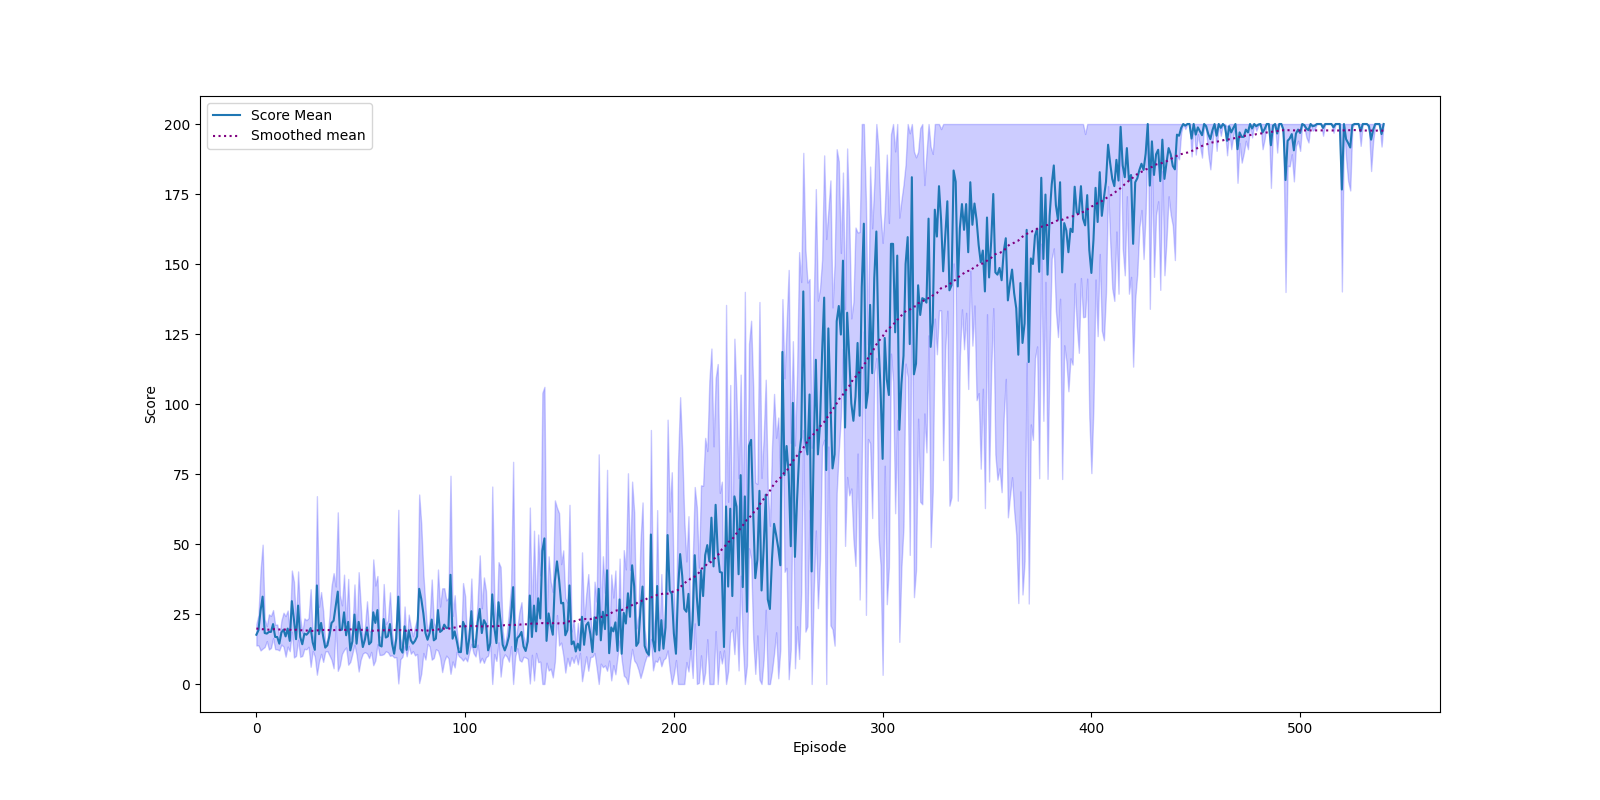
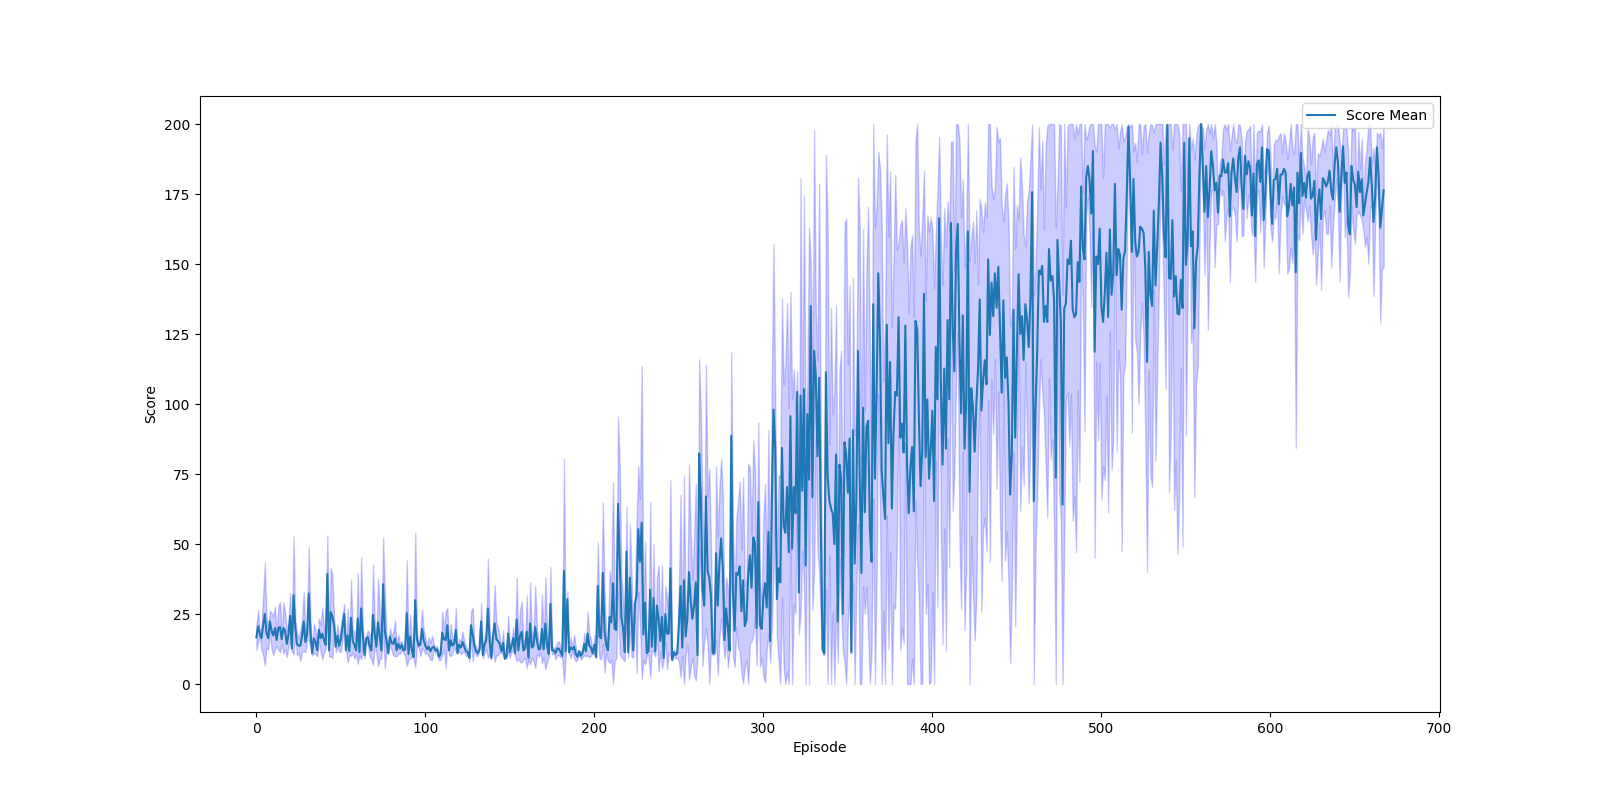
got data flowing through the model

Changed region(s): [[0.1562, 0.125, 0.9062, 0.875], [0.1562, 0.125, 0.2188, 0.1875], [0.7812, 0.9062, 0.8125, 0.9375]]

diff --git a/project_experiments/vision_cart_pole.py b/project_experiments/vision_cart_pole.py
@@ -14,6 +14,18 @@ import torch.nn.functional as F
 import torchvision.transforms as T
 from collections import deque
 from tqdm import tqdm
+import os, shutil
+from random import randint
+folder = 'project_exp_figs'
+for filename in os.listdir(folder):
+    file_path = os.path.join(folder, filename)
+    try:
+        if os.path.isfile(file_path) or os.path.islink(file_path):
+            os.unlink(file_path)
+        elif os.path.isdir(file_path):
+            shutil.rmtree(file_path)
+    except Exception as e:
+        print('Failed to delete %s. Reason: %s' % (file_path, e))
 
 # Wandb
 #import wandb
@@ -76,7 +88,7 @@ is_ipython = 'inline' in matplotlib.get_backend()
 if is_ipython:
     from IPython import display
 
-plt.ion()
+#plt.ion()
 
 # If gpu is to be used
 
@@ -222,7 +234,7 @@ else:
     plt.imshow(get_screen().cpu().squeeze(0).permute(
         1, 2, 0).numpy().squeeze(), cmap='gray')
 plt.title('Example extracted screen')
-plt.show()
+#plt.ioff()
 
 env.close()
 
@@ -237,7 +249,7 @@ n_actions = env.action_space.n
 
 policy_net = DQN(screen_height, screen_width, n_actions).to(device)
 target_net = DQN(screen_height, screen_width, n_actions).to(device)
-env_net = D_AutoEncoder(screen_height, screen_width, 100, n_actions).to(device)
+env_net = D_AutoEncoder(screen_height, screen_width, 10, n_actions).to(device)
 target_net.load_state_dict(policy_net.state_dict())
 target_net.eval()
 
@@ -274,35 +286,7 @@ def select_action(state, stop_training):
     else:
         return torch.tensor([[random.randrange(n_actions)]], device=device, dtype=torch.long)
     
-# Plotting
-def plot_durations(score):
-    fig, ax = plt.subplots(figsize=(16,8))
-    durations_t = torch.tensor(episode_durations, dtype=torch.float)
-    episode_number = len(durations_t) 
-    ax.set_title('Training...')
-    ax.set_xlabel('Episode')
-    ax.set_ylabel('Duration')
-    dur = durations_t.numpy()
-    plt.style.use('seaborn') #Change/Remove This If you Want
-#     ax.plot(dur, label= 'Score')
-    ax.fill_between(np.linspace(1,episode_number,episode_number),
-                    dur - dur.std(), dur + dur.std(), alpha=0.2)
 
-    plt.hlines(195, 0, episode_number, colors='red', linestyles=':', label='Win Threshold')
-    
-    # Take 100 episode averages and plot them too
-    if len(durations_t) >= 100:
-        means = durations_t.unfold(0, 100, 1).mean(1).view(-1)
-        last100_mean = means[episode_number -100].item()
-        means = torch.cat((torch.zeros(99), means))
-        ax.plot(means.numpy(), label= 'Last 100 mean')
-        print('Episode: ', episode_number, ' | Score: ', score, '| Last 100 mean = ', last100_mean)
-    ax.legend(loc='upper left')
-    fig.savefig('plots/' + graph_name)
-#     if is_ipython:
-#         display.clear_output(wait=True)
-#         display.display(plt.gcf())
-    fig.show()
 
 # Training 
 def optimize_model():
@@ -342,7 +326,8 @@ def optimize_model():
 
     # Compute Huber loss
     loss = F.smooth_l1_loss(state_action_values, expected_state_action_values.unsqueeze(1))
-    plt.figure(2)
+    #plt.figure(2)
+
     #wandb.log({'Loss:': loss})
 
     # Optimize the model
@@ -371,14 +356,44 @@ def optimize_env_model():
     # torch.cat concatenates tensor sequence
     state_batch = torch.cat(batch.state)
     action_batch = torch.cat(batch.action)
-    reward_batch = torch.cat(batch.reward).type(torch.FloatTensor).to(device)
 
     predicted_next_states = env_net(state_batch[non_final_mask], action_batch[non_final_mask])#.detach()
 
-    # Compute Huber loss
     loss = F.mse_loss(predicted_next_states, non_final_next_states)
 
-    plt.figure(2)
+    if i_episode%50==0:
+        pic_id = randint(0, predicted_next_states.shape[0])
+        fig, ax = plt.subplots(2,2)
+        if GRAYSCALE == 0:
+            ax[0,0].imshow(predicted_next_states[pic_id,0].cpu().numpy(),
+                    interpolation='none')
+            ax[0,0].set_title("pred0")
+            ax[1,0].imshow(non_final_next_states[pic_id,0].cpu().numpy(),
+                    interpolation='none')
+            ax[1,0].set_title("real0")
+            ax[0,1].imshow(predicted_next_states[pic_id,1].cpu().numpy(),
+                    interpolation='none')
+            ax[0,1].set_title("pred1")
+            ax[1,1].imshow(non_final_next_states[pic_id,1].cpu().numpy(),
+                    interpolation='none')
+            ax[1,1].set_title("real1")
+        else:
+            ax[0,0].imshow(predicted_next_states[pic_id,0].detach().cpu().numpy(), 
+                    cmap='gray')
+            ax[0,0].set_title("pred0")
+            ax[1,0].imshow(non_final_next_states[pic_id,0].detach().cpu().numpy(), 
+                    cmap='gray')
+            ax[1,0].set_title("real0")
+            ax[0,1].imshow(predicted_next_states[pic_id,1].detach().cpu().numpy(), 
+                    cmap='gray')
+            ax[0,1].set_title("pred1")
+            ax[1,1].imshow(non_final_next_states[pic_id,1].detach().cpu().numpy(), 
+                    cmap='gray')
+            ax[1,1].set_title("real1")
+        fig.suptitle('Example predicted screen')
+        fig.savefig(f"project_exp_figs/screen{j}_{i_episode}.png")
+        plt.close(fig)
+    #plt.show()
     #wandb.log({'env_Loss:': loss})
 
     # Optimize the model
@@ -387,11 +402,13 @@ def optimize_env_model():
     #for param in policy_net.parameters():
     #    param.grad.data.clamp_(-1, 1)
     env_optim.step()
+    return loss.item()
 
 episodes_trajectories = []
+vae_losses = []
 episodes_after_stop = 100
 
-runs = 5
+runs = 3
 
 # MAIN LOOP
 stop_training = False
@@ -412,6 +429,7 @@ for j in range(runs):
     
     steps_done = 0
     episode_durations = []
+    vae_loss = []
     for i_episode in tqdm(range(N_EPISODES)):
         # Initialize the environment and state
         env.reset()
@@ -459,7 +477,9 @@ for j in range(runs):
                 mean = mean/LAST_EPISODES_NUM
                 if mean < TRAINING_STOP and stop_training == False:
                     optimize_model()
-                    optimize_env_model()
+                    l = optimize_env_model()
+                    if not(l is None):
+                        vae_loss.append(l)
                 else:
                     stop_training = True
                 break
@@ -472,12 +492,13 @@ for j in range(runs):
             if count_final >= 100:
                 break
 
-            
     print('Complete')
     stop_training = False
     episodes_trajectories.append(episode_durations)
+    vae_losses.append(vae_loss)
+
     
-plt.ioff()
+
 plt.show()
 
 # Cherry picking best runs
@@ -504,6 +525,7 @@ for i in range(len(best)):
     
 best = np.asarray(best)
 
+
 # To numpy
 score_mean = np.zeros(maximum)
 score_std = np.zeros(maximum)
@@ -517,6 +539,9 @@ print(len(last100_mean))
 
 t = np.arange(0, maximum, 1)
 
+
+
+
 # from scipy.interpolate import make_interp_spline # make smooth version
 # interpol = make_interp_spline(t, score_mean, k=3)  # type: BSpline
 
@@ -528,6 +553,21 @@ ax.set_xlabel('Episode')
 ax.set_ylabel('Score')
 # ax.set_title('Inverted Pendulum Training Plot from Pixels')
 ax.plot(t, score_mean, label='Score Mean')
-ax.plot(t, last100_mean, color='purple', linestyle='dotted', label='Smoothed mean')
+#ax.plot(t, last100_mean, color='purple', linestyle='dotted', label='Smoothed mean')
 ax.legend()
 fig.savefig('score.png')
+
+print(vae_losses[0][0])
+for a in range(len(vae_losses)):
+    if len(vae_losses[a]) < t.size:
+        vae_losses[a].extend([vae_losses[a][-1]]*(t.size-len(vae_losses[a])))
+
+vae_losses = np.array(vae_losses)
+vae_losses = np.mean(vae_losses, axis=0)
+
+fig, ax = plt.subplots(figsize=(16, 8))
+ax.set_xlabel('Episode')
+ax.set_ylabel('loss')
+# ax.set_title('Inverted Pendulum Training Plot from Pixels')
+ax.plot(t, vae_losses)
+fig.savefig('loss.png')
